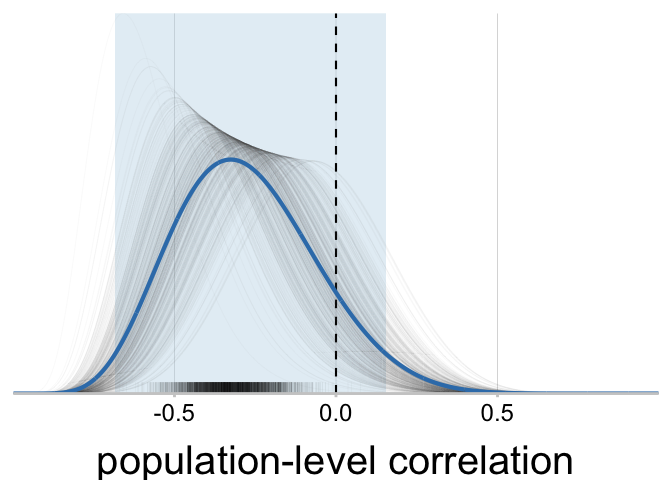
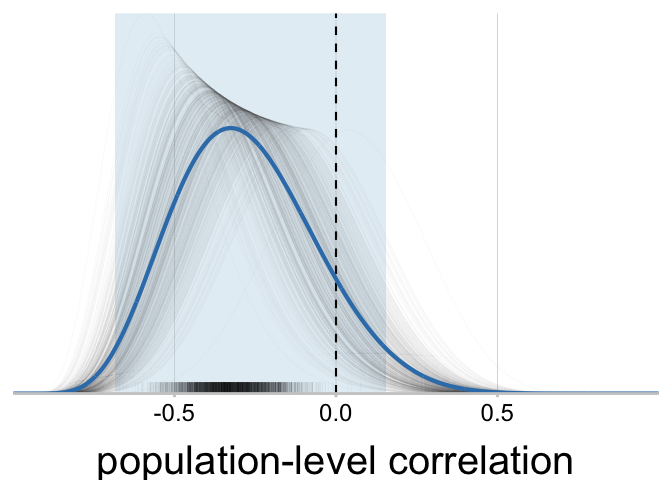
more minor tweaks

Changed region(s): [[0.0938, 0.1562, 0.6875, 0.8125]]

diff --git a/README.md b/README.md
@@ -42,8 +42,8 @@ tested the effect of a speed/accuracy manipulation on speeded
 decision-making.
 
 The following illustrates how to analyse the correlation between a
-latent parameter (estimated change in response caution) and observed
-covariates (fMRI BOLD signal change in different brain regions):
+latent parameter (estimated change in response caution) and an observed
+covariate (fMRI BOLD signal change in the caudate nucleus):
 
 ``` r
 library(plausiblecor)
@@ -70,29 +70,9 @@ summary(caution_striatum_cor)
 plot(caution_striatum_cor)
 ```
 
-<img src="man/figures/README-basic_example-1.png" width="100%" />
+<img src="man/figures/README-basic_example-1.png" width="50%" height="25%" />
 
-``` r
-
-# compare to the correlation between the same latent parameter and fMRI signal in a different brain region
-caution_presma_cor <- run_plausible_cor(
-  mcmc_data = Forstmann_LBA,
-  covariate_data = Forstmann_fMRI,
-  draw_id = ".draw",
-  subject_id = "subjects",
-  parameter = "caution_effect_speed",
-  covariate = "pre_sma"
-)
-
-compare_plausible_cors(caution_striatum_cor, caution_presma_cor)
-#> # A tibble: 2 × 5
-#>   type         mean   lower upper p_dir
-#>   <fct>       <dbl>   <dbl> <dbl> <dbl>
-#> 1 sample     0.0764 -0.0649 0.203 0.864
-#> 2 population 0.0633 -0.511  0.610 0.590
-```
-
-\## Development status
+## Development status
 
 This package is under **active development**. Some functions are
 experimental and may change drastically or be removed without notice. If
@@ -100,12 +80,13 @@ you use this package, please be prepared to update your code as the
 package develops. Feedback is very welcome via [GitHub
 issues](https://github.com/frankhezemans/plausiblecor/issues).
 
-\## Statement of need
+## Statement of need
 
 As far as we know, this methodology has so far only been implemented in
-two open-source tools: the Dynamic Models of Choice (`DMC`) toolbox
-(Heathcote et al., 2019), and the `TreeBUGS` R package (Heck et al.,
-2018). Both of these implementations are tied to specific modelling
+two open-source tools: the Dynamic Models of Choice
+([`DMC`](https://osf.io/pbwx8/)) toolbox (Heathcote et al., 2019), and
+the [`TreeBUGS`](https://github.com/danheck/TreeBUGS) R package (Heck et
+al., 2018). Both of these implementations are tied to specific modelling
 frameworks and software: `DMC` focuses on models of speeded
 decision-making, and `TreeBUGS` focuses on multinomial processing tree
 models and requires the JAGS MCMC library.
